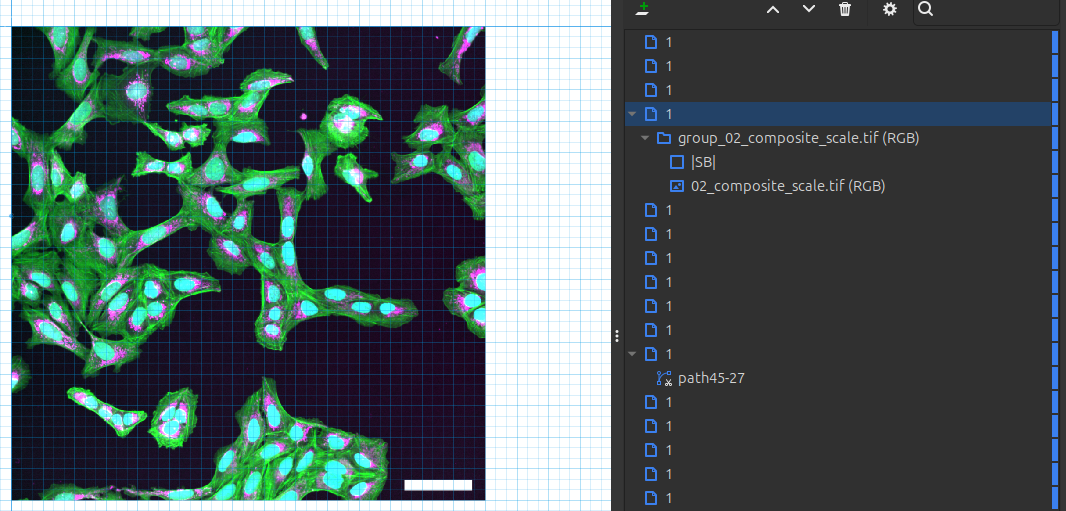
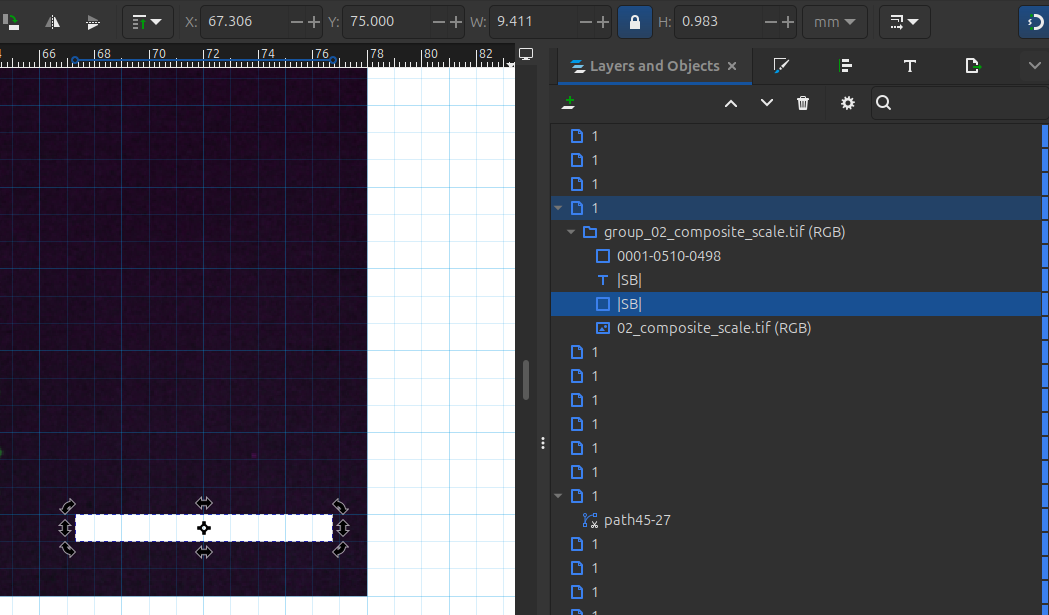
Improved unit 3

diff --git a/checklists/fiji_course/unit-3_figure_prep.md b/checklists/fiji_course/unit-3_figure_prep.md
@@ -152,7 +152,27 @@ Import images at 300 dpi, as this is the required printing resolution of most jo
 
 The first step is to resize the image to fit the image figure. When resizing make sure to lock the aspect ratio and resize the image uniformly. After import the annotations can be edited. 
 
+```{figure} ./unit-3_resources/annotations/inkscape_resize.png
+:alt: In
+:align: center
+:name: inkscape_resize
+:width: 100%
+
+Resize image panel to fit the figure. Note: the lock on the aspect ration to resize the image uniformly.
+```
+
 Next you can select annotation in Layers and Objects. Unlock the annotation if locked to modify them. Modify the size and location of the annotation.
+
+Layer > Layers and Objects...
+
+```{figure} ./unit-3_resources/annotations/inkscape_layers_objects.png
+:alt: In
+:align: center
+:name: inkscape_layers_objects
+:width: 100%
+
+Layers and objects allow to select the different annotations.
+```
 
 :::{important}
 
@@ -160,16 +180,17 @@ Ensure that the annotations are legible. Make sure the annotations do not obscur
 
 :::
 
-```{figure} ./unit-3_resources/annotations/edit_annotations.png
+
+```{figure} ./unit-3_resources/annotations/inkscape_annotations.png
 :alt: In
 :align: center
-:name: edit_annotations
+:name: inkscape_annotations
 :width: 100%
 
-Edit annotations in Inkscape.
+The ROI - 0001-0510-0498, the scale bar and scale bar text - |SB|, and the image - 02_composite_scale.tif (RGB) is shown. Note: the scale bars are locked.
 ```
 
-Edit height and location of scale bar. Edit the dimension annotation such that it is uniform and legible across all images.
+Select the annotation you want to modify in the layers and objects interface. Then edit height and location of scale bar. Edit the dimension annotation such that it is uniform and legible across all images.
 
 ```{figure} ./unit-3_resources/annotations/edited_annotation.png
 :alt: In
@@ -182,7 +203,7 @@ Scale bar adjusted for height and location. The dimension will be specified in t
 
 :::{tip}
 
-To make annotations simpler in the image, one can specify the physical dimension that the scale bar represents also in the figure legends.
+To make annotations simpler in the image, one can specify the physical dimension that the scale bar represents also in the figure legends. To easily retrieve this information one can drag the scale bar text outside the canvas. 
 
 If different image panels have the same scale bar, you can put the scale bar in the first image. Critical is that images of different dimensions (e.g., overview and enlarged) show the correct scale.   
 
